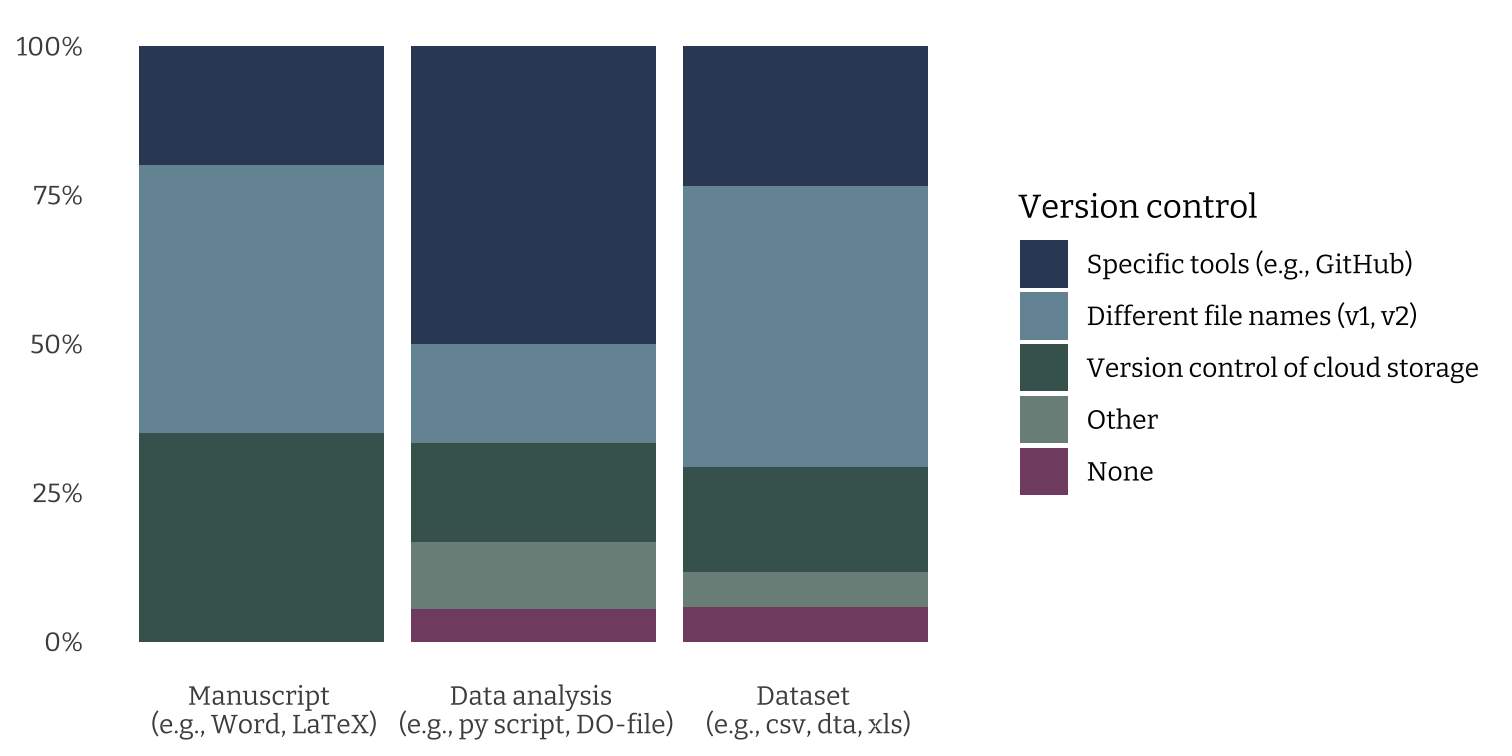
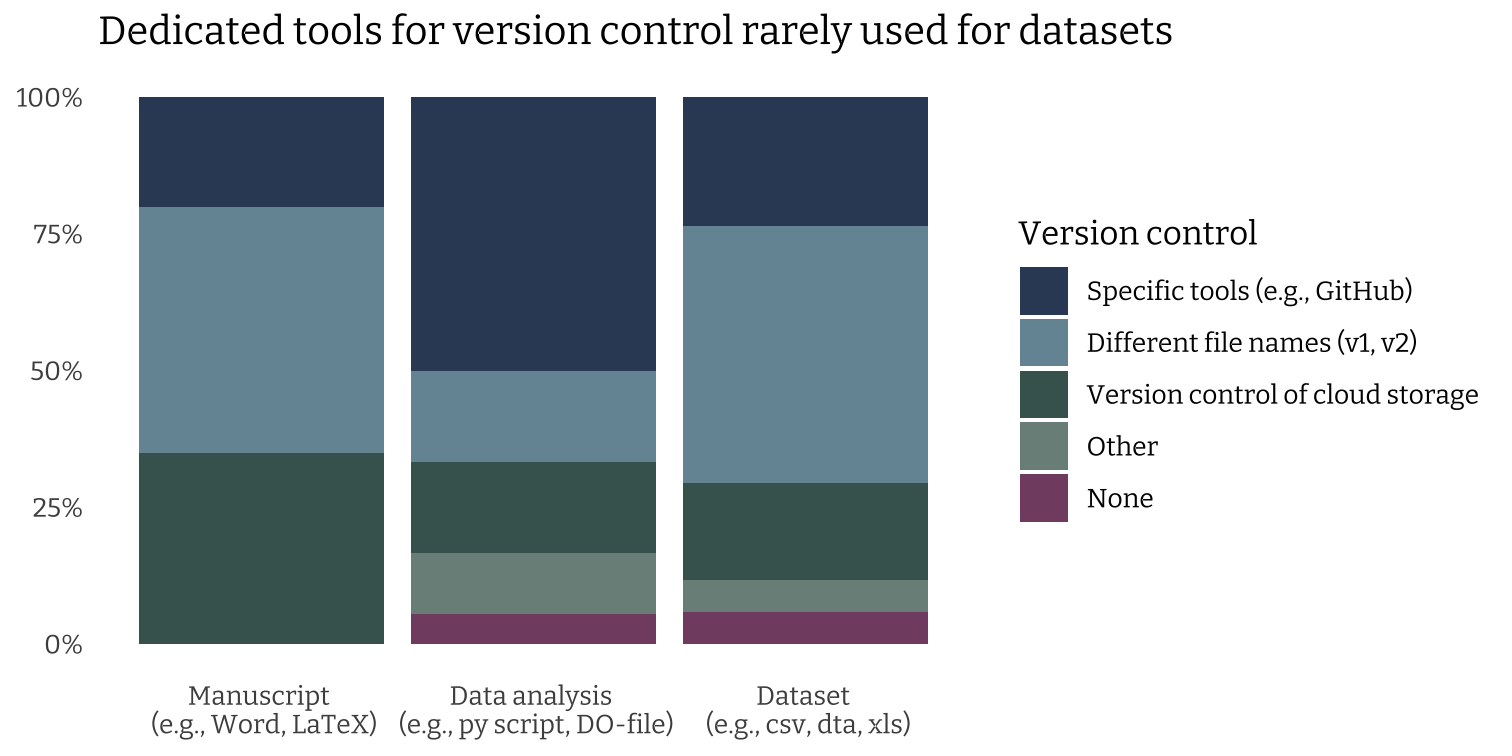
added title for mosaic plot

diff --git a/OpenScienceDay/index.html b/OpenScienceDay/index.html
@@ -93,7 +93,7 @@ class: left, left
 
 - Open science
     - Open Science Fellowship by Wikimedia Foundation (2020)
-    - Open Science Grant by Open Science Office (2021)
+    - Open Science Grant by University of Mannheim (2021)
 
 ---
 class: left, left
@@ -107,7 +107,7 @@ class: left, left
 
 - Open science
     - **Open Science Fellowship by Wikimedia Foundation (2020)**
-    - Open Science Grant by Open Science Office (2021)
+    - Open Science Grant by University of Mannheim (2021)
 
 ---
 
@@ -138,7 +138,7 @@ class: left, left
 
 - Open science
     - Open Science Fellowship by Wikimedia Foundation (2020)
-    - **Open Science Grant by Open Science Office (2021)**
+    - **Open Science Grant by University of Mannheim (2021)**
 
 ---
 class: middle, center, inverse
